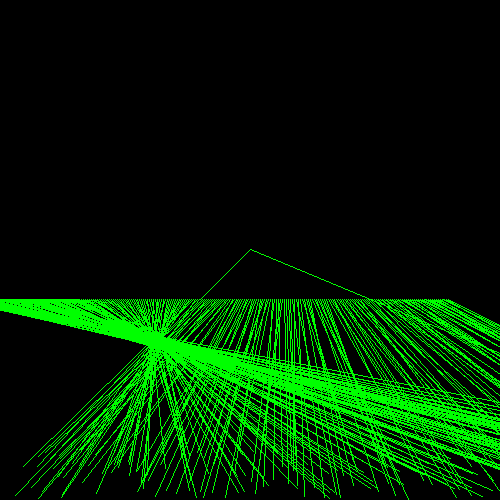
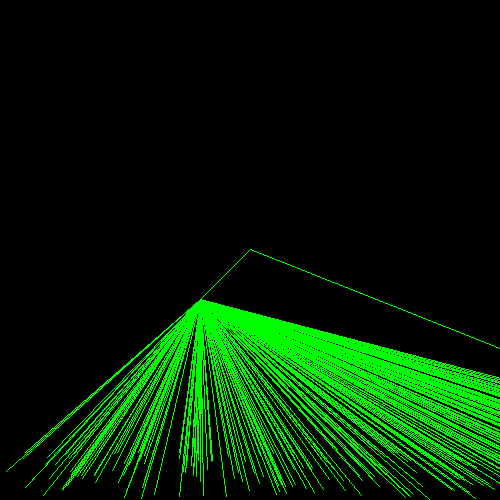
1

Changed region(s): [[0.0, 0.57, 1.0, 1.0], [0.6, 0.54, 0.66, 0.57], [0.57, 0.51, 0.6, 0.54]]

diff --git a/main.py b/main.py
@@ -35,7 +35,7 @@ clear_screen(screen)
 matrix = new_matrix(0)
 x, y, z = 250, 250, 1
 for i in range(250):
-	add_edge(matrix, x, y, z, int( i * math.cos(i*math.pi)) + 200, int( i * math.sin(i*math.pi)) + 200 , 1)
+	add_edge(matrix, x, y, z, int( i * math.tan(i*math.pi)) + 200, int( i * math.sin(i*math.pi)) + 200 , 1)
 	x = int( i*math.pi ) + random.randrange(50)
 	y = int( i%math.pi ) + random.randrange(50)
 	z = 1
